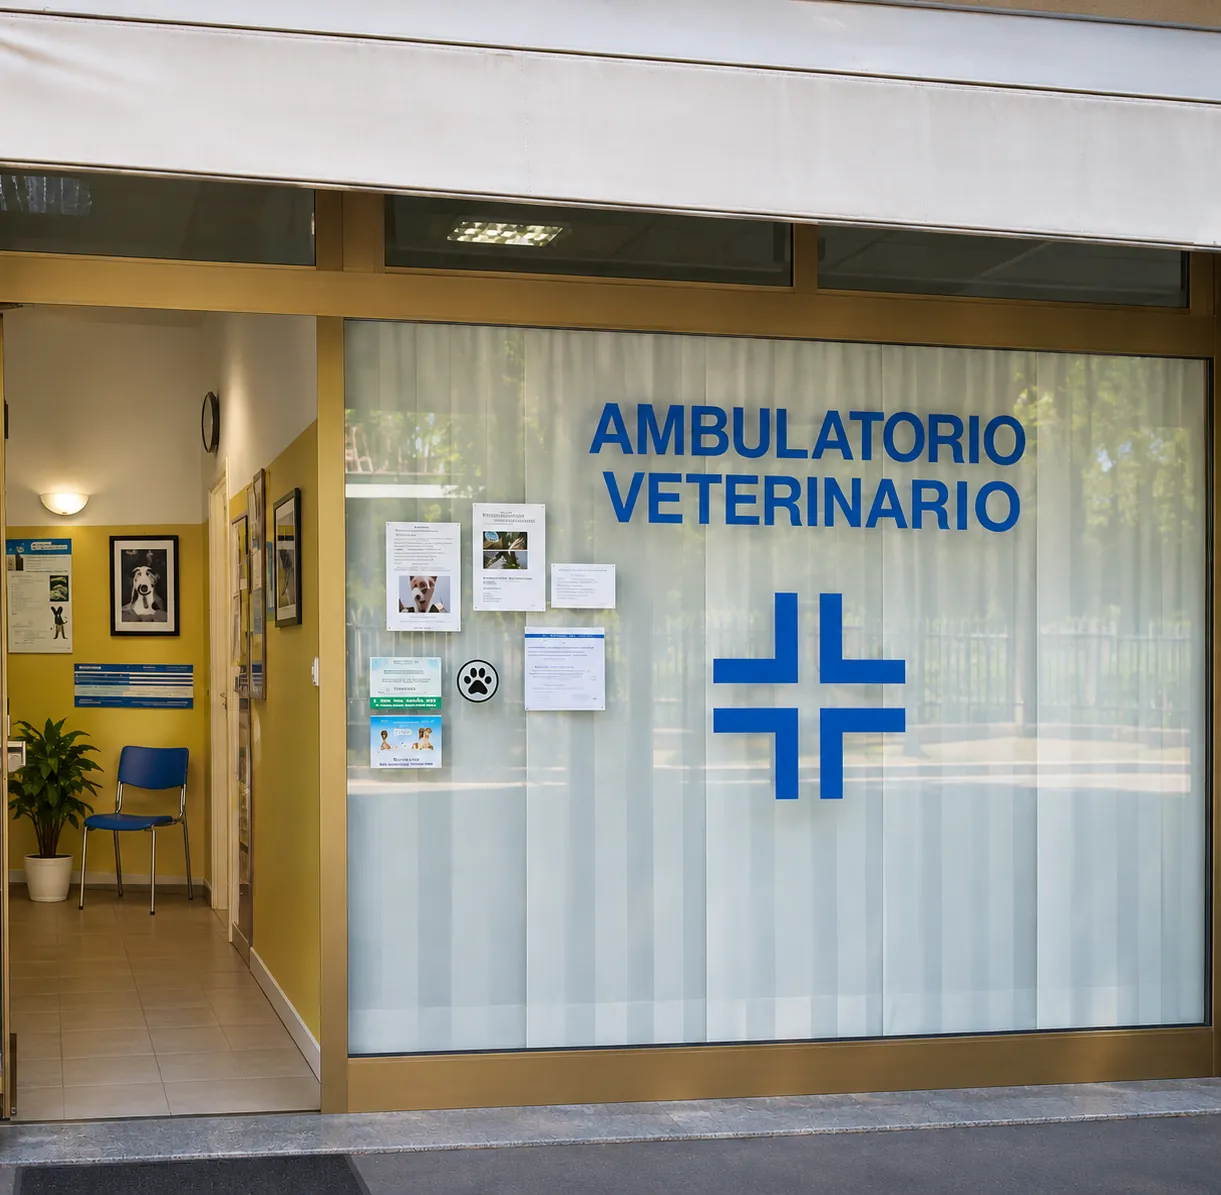
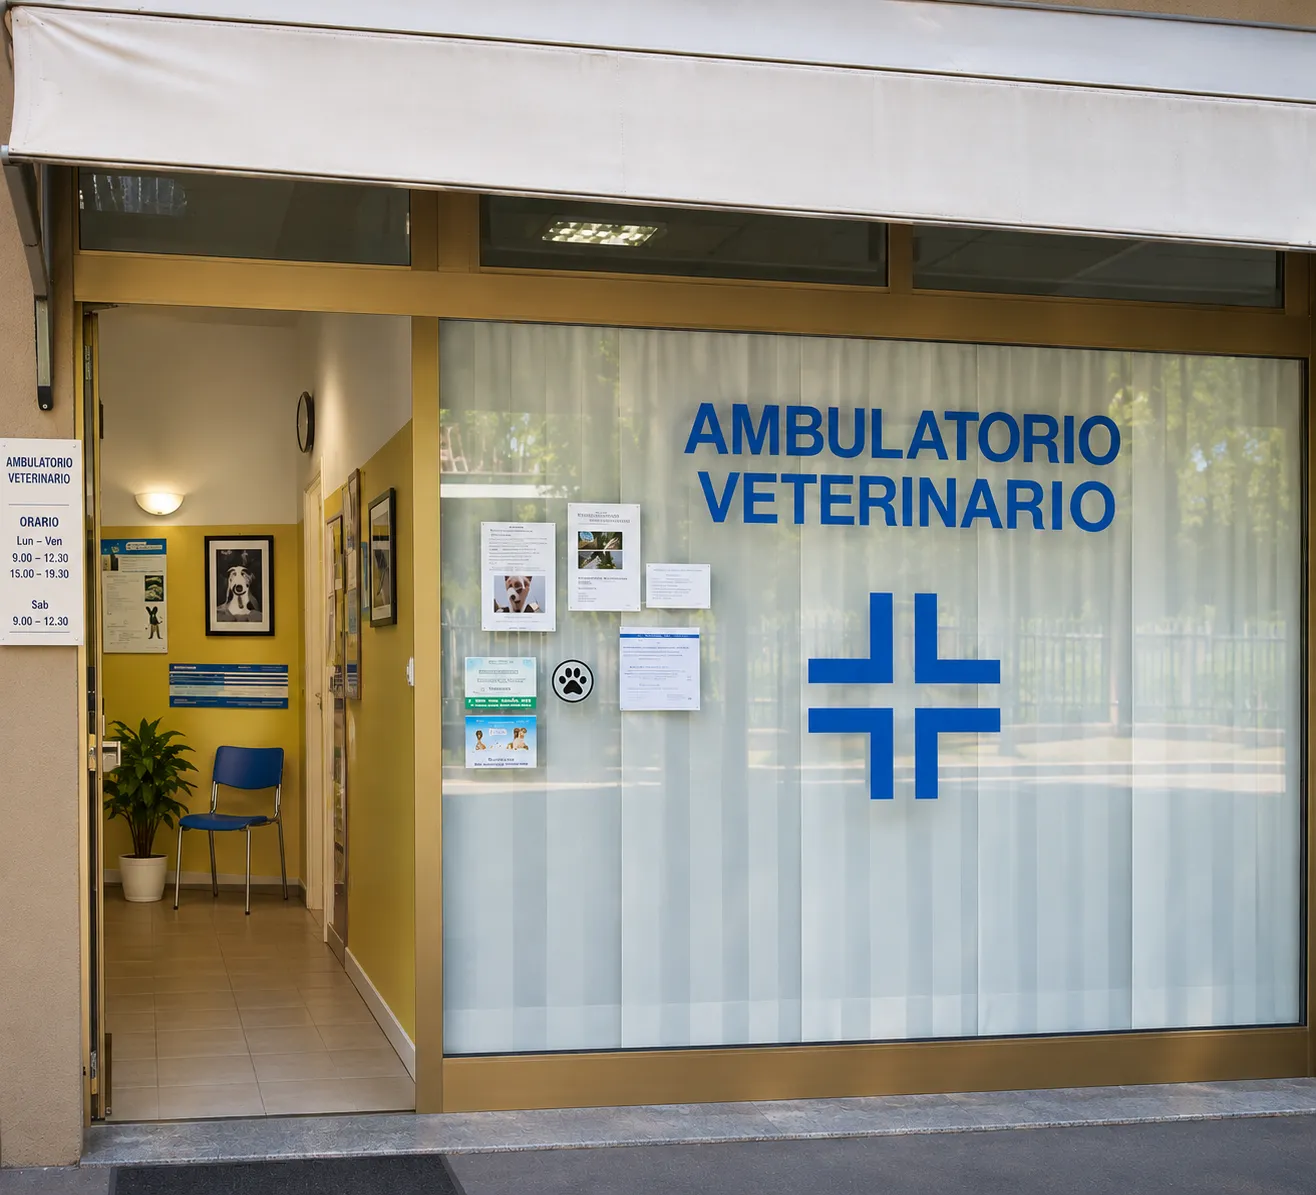
Hero: foto ingresso completa, meno ritagliata

diff --git a/src/app/v2.css b/src/app/v2.css
@@ -71,7 +71,7 @@
 .v2-hero h1 em { color: var(--diagnostica); }
 .v2-hero > div:first-child { align-items: center; }
 .v2-hero .v2-hero-visual { padding: 0 0 8px 0; }
-.v2-hero .v2-hero-visual .photo-slot { aspect-ratio: 1.75; border-radius: 120px 4px 4px 4px; box-shadow: 14px 14px 0 var(--visita-tint); }
+.v2-hero .v2-hero-visual .photo-slot { aspect-ratio: 1.2; border-radius: 120px 4px 4px 4px; box-shadow: 14px 14px 0 var(--visita-tint); }
 .v2-hero .v2-hero-visual > div:last-child { padding-top: 18px; }
 .v2-hero .hours-quick { margin-top: 14px; padding-top: 12px; }
 
@@ -210,7 +210,7 @@
 }
 @media (max-width: 640px) {
   .v2-hero { padding-top: 24px; }
-  .v2-hero .v2-hero-visual .photo-slot { aspect-ratio: 1.7; border-top-left-radius: 70px; box-shadow: 8px 8px 0 var(--visita-tint); }
+  .v2-hero .v2-hero-visual .photo-slot { aspect-ratio: 1.2; border-top-left-radius: 70px; box-shadow: 8px 8px 0 var(--visita-tint); }
   .v2-services { padding-block: 34px 20px; }
   .v2-head { margin-bottom: 18px; }
   .v2-head h2, .v2-team h2, .v2-faq h2, .v2-steps h2 { font-size: 33px; }
